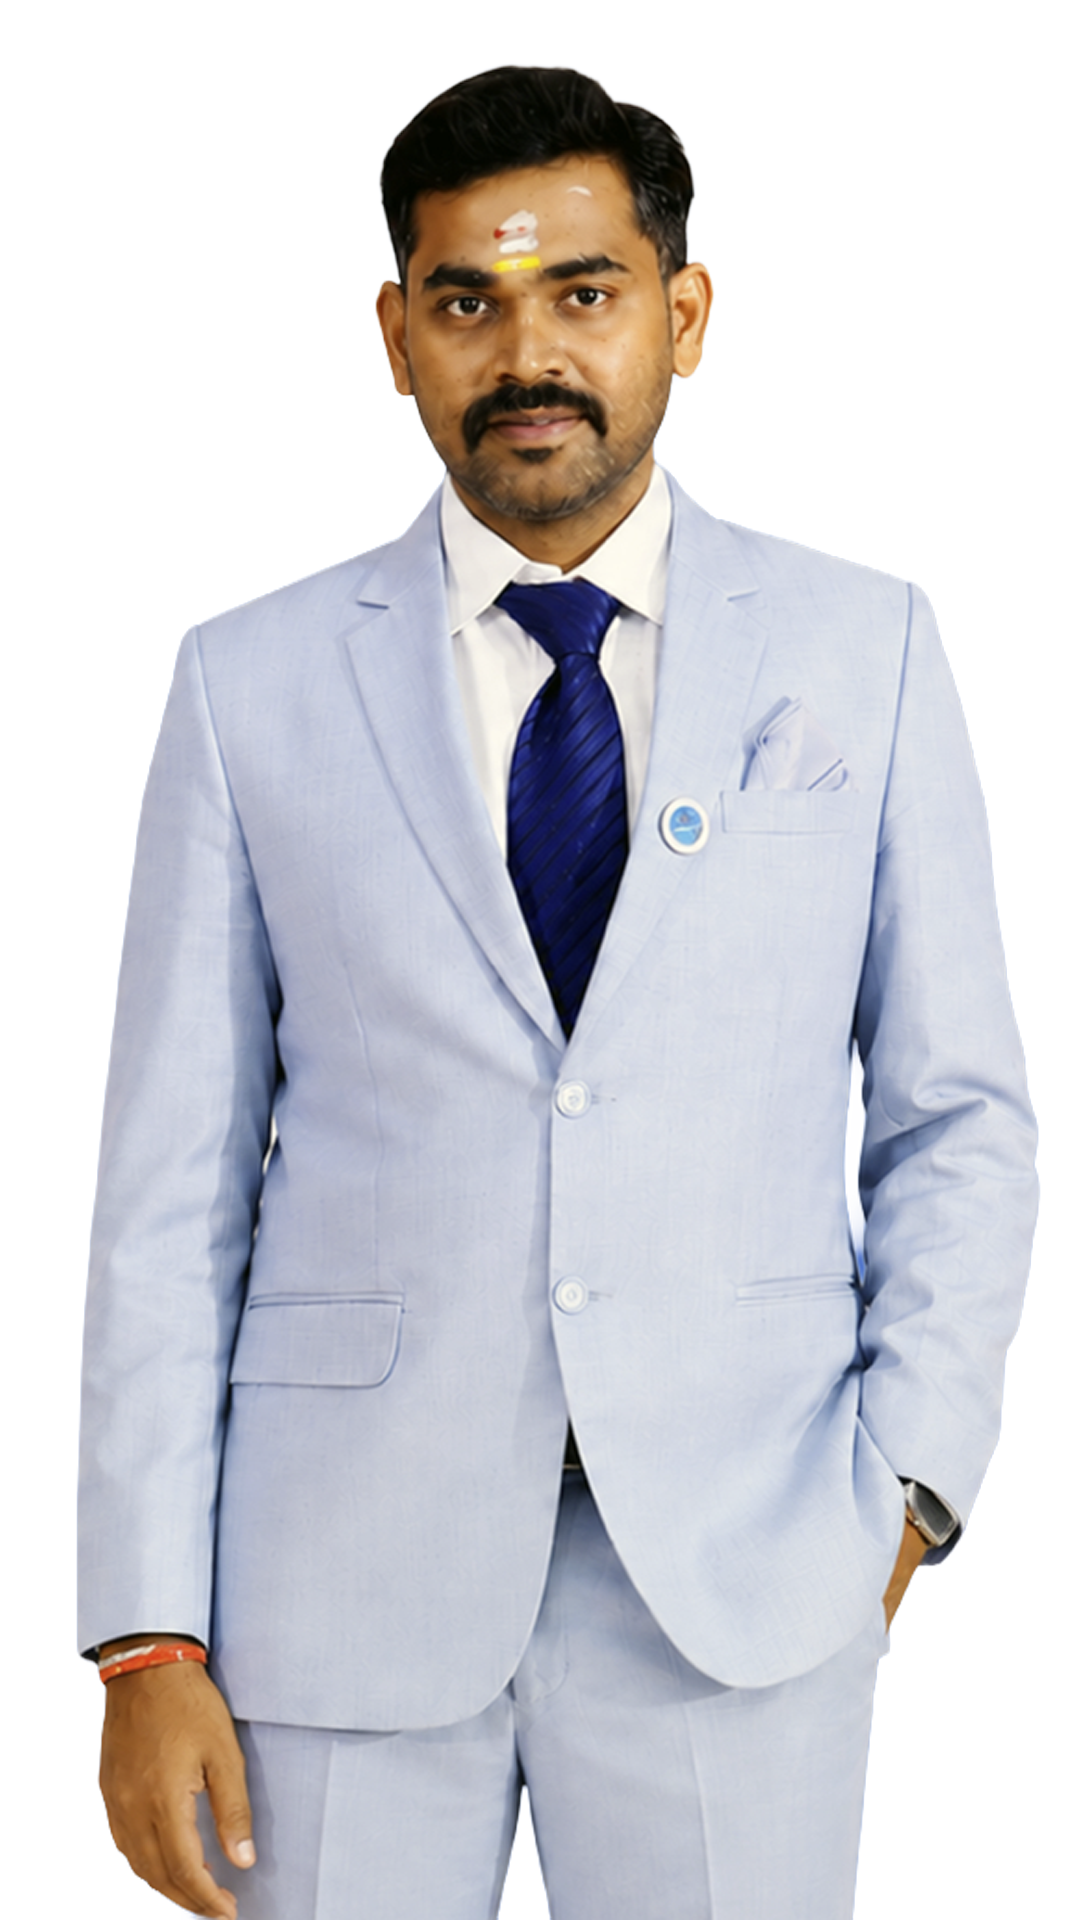
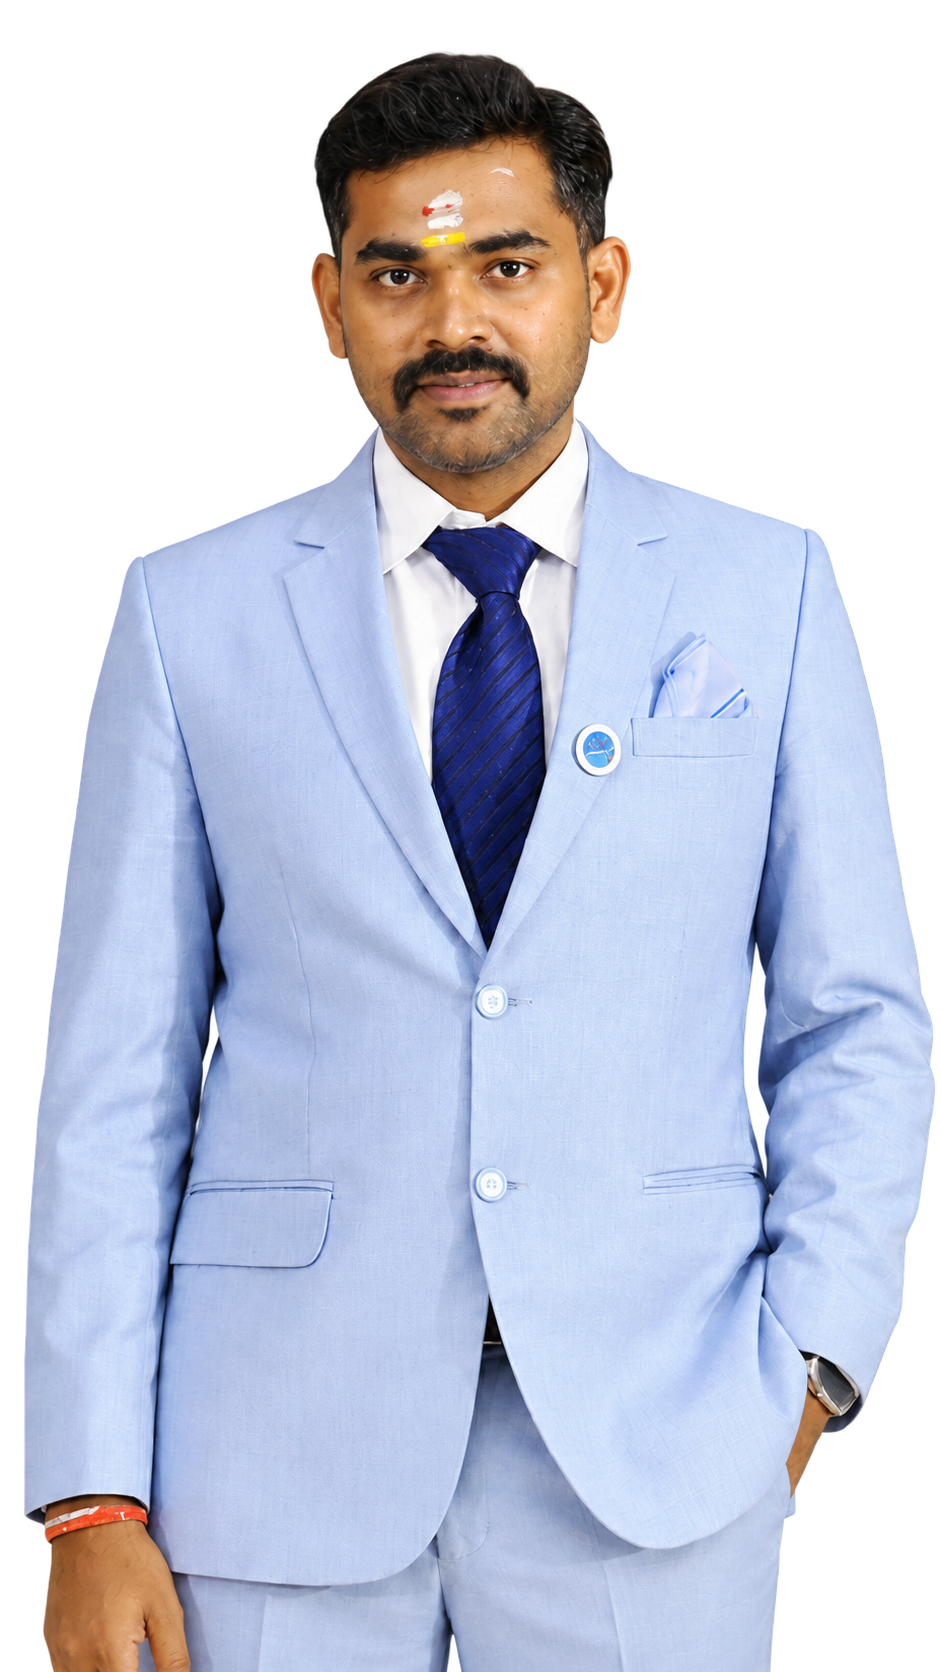
hero section height change

diff --git a/src/pages/Home.tsx b/src/pages/Home.tsx
@@ -170,7 +170,7 @@ export default function Home() {
   return (
     <Layout>
       {/* ── HERO ─────────────────────────────────────────────────────────── */}
-      <section className="relative min-h-[85vh] lg:min-h-screen flex items-center overflow-hidden bg-[#102F56]">
+      <section className="relative min-h-[78vh] lg:min-h-[88vh] flex items-center overflow-hidden bg-[#102F56]">
         {/* Background Image Slider with Crossfade */}
         <div className="absolute inset-0 z-0">
           <AnimatePresence mode="wait">
@@ -188,9 +188,9 @@ export default function Home() {
           <div className="absolute inset-0 bg-gradient-to-r from-[#102F56]/75 via-[#102F56]/40 to-[#102F56]/50 z-10 pointer-events-none" />
         </div>
 
-        <div className="container mx-auto px-6 lg:px-12 relative z-20 pt-16 pb-12 lg:pt-20 lg:pb-0 min-h-[85vh] lg:min-h-screen flex flex-col lg:flex-row items-center lg:items-end justify-between gap-10 lg:gap-12">
+        <div className="container mx-auto px-6 lg:px-12 relative z-20 pt-16 pb-12 lg:pt-16 lg:pb-0 min-h-[78vh] lg:min-h-[88vh] flex flex-col lg:flex-row items-center lg:items-end justify-between gap-10 lg:gap-12">
           {/* Left: Elegant Floating Light Card */}
-          <div className="w-full lg:max-w-xl py-6 lg:py-16 my-auto shrink-0">
+            <div className="w-full lg:max-w-xl py-6 lg:py-12 my-auto shrink-0">
             <motion.div
               initial={{ opacity: 0, x: -30 }}
               animate={{ opacity: 1, x: 0 }}
@@ -263,7 +263,7 @@ export default function Home() {
               <img
                 src="/images/A.B%20Alagiri%20Rajan.png"
                 alt="A.B. Alagiri Rajan - Managing Director"
-                className="h-[400px] sm:h-[480px] md:h-[540px] lg:h-[620px] xl:h-[700px] w-auto object-contain object-bottom drop-shadow-[0_25px_35px_rgba(0,0,0,0.65)]"
+                className="h-[360px] sm:h-[430px] md:h-[490px] lg:h-[540px] xl:h-[600px] w-auto object-contain object-bottom drop-shadow-[0_25px_35px_rgba(0,0,0,0.65)]"
               />
               {/* Static Name Badge Tag below his image */}
               <div className="-mt-4 md:-mt-5 relative z-30 inline-flex items-center gap-2.5 bg-[#102F56]/95 backdrop-blur-md px-4 py-2.5 md:px-5 md:py-2.5 rounded shadow-xl border border-white/20 text-white font-bold text-xs md:text-sm uppercase tracking-wider">

diff --git a/vite.config.ts b/vite.config.ts
@@ -18,7 +18,8 @@ export default defineConfig({
     emptyOutDir: true,
   },
   server: {
-    port: 3000,
+    port: 3001,
+    strictPort: true,
     host: "0.0.0.0",
   },
 });
